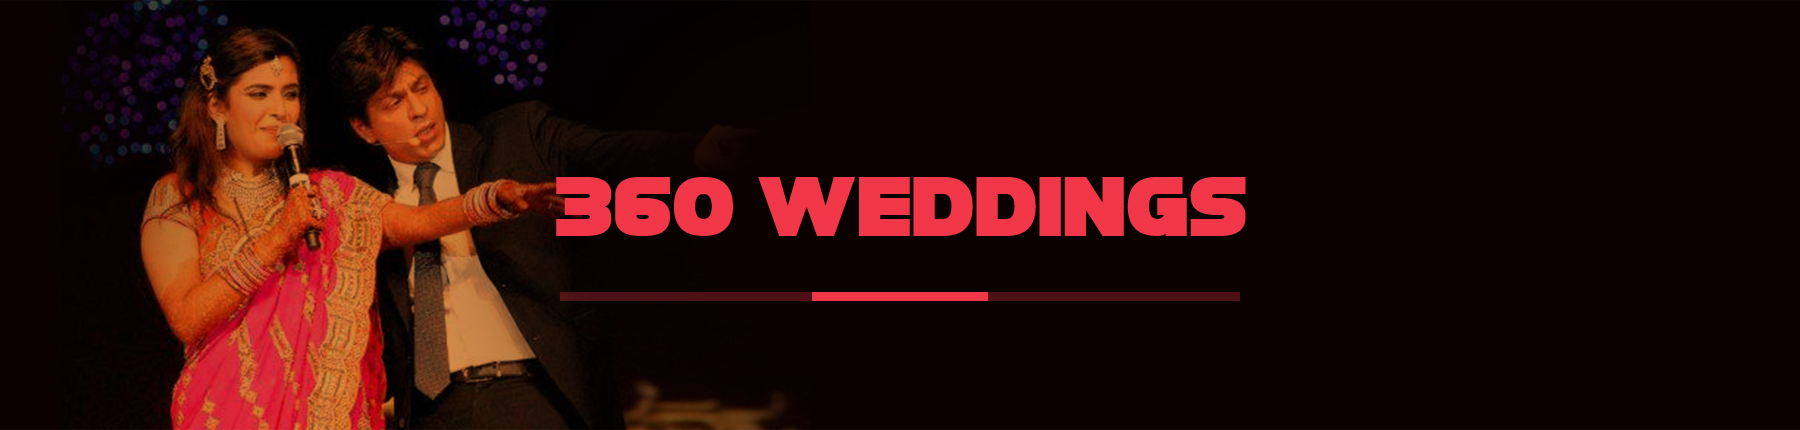
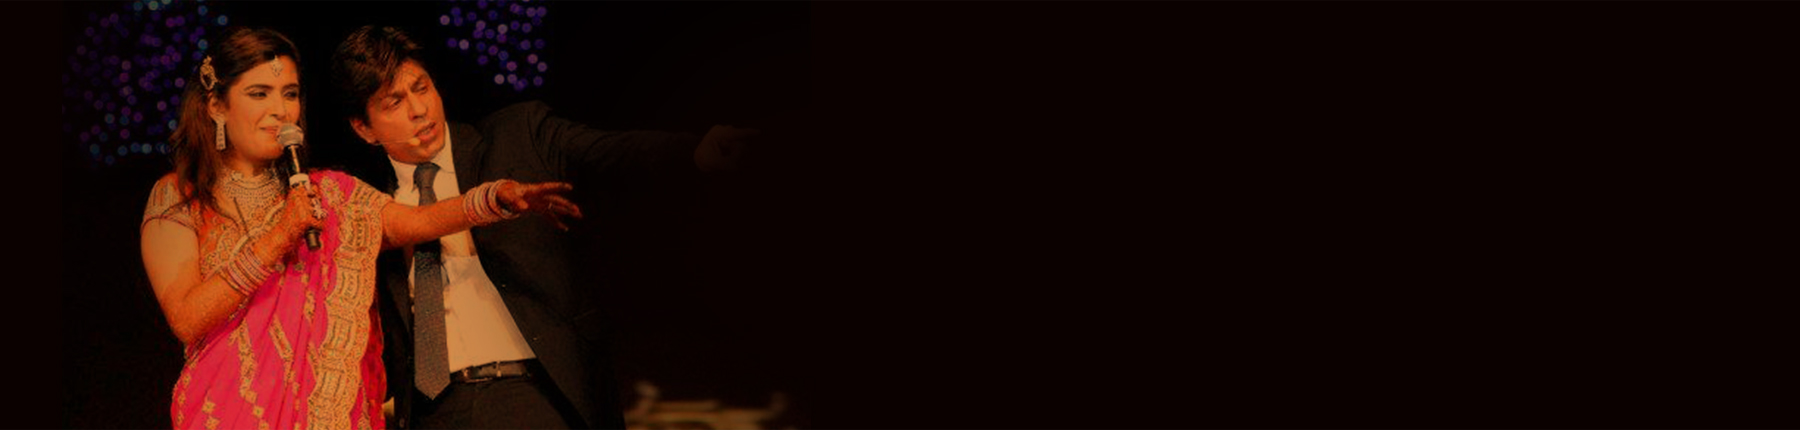
chnages some page

Changed region(s): [[0.3111, 0.393, 0.7156, 0.5744], [0.3111, 0.6651, 0.6844, 0.7256]]

diff --git a/views/content/weddinginside.html b/views/content/weddinginside.html
@@ -1,6 +1,11 @@
 <section>
   <div class="banner">
     <img src="img/weddings/banner.jpg" class="img-responsive" style="width:100%;">
+    <div class="banner-title text-center">
+      <h4>
+        360 Weddings
+      </h4>
+    </div>
   </div>
 </section>
 <section>
@@ -9,6 +14,7 @@
       <div class="col-md-6">
         <div class="wedding-imgbox">
           <img src="img/weddings/w1.png" class="img-responsive" alt="">
+
         </div>
 
       </div>
